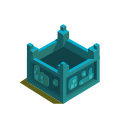
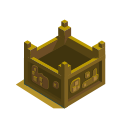
more engine stuff

diff --git a/protypes/proto_1/js/objects.js b/protypes/proto_1/js/objects.js
@@ -8,7 +8,6 @@ function space(id, x, y) {
         this.developed = false,
         this.occupants = [],
         this.watching_towers = [],
-        this.developed = false,
         this.occupied = false,
         this.tower = null,
         this.build = function (space_id) {
@@ -52,15 +51,7 @@ function tower(space_id) {
         this.render = function () {
 
             var img = new Image()
-            if (this.level === 1) {
-                img.src = 'gfx/buildings/tower_1_brown.png'
-            }
-            if (this.level >= 2) {
-                img.src = 'gfx/buildings/tower_2.png'
-            }
-            if (this.level >= 3) {
-                img.src = 'gfx/buildings/tower_3.png'
-            }
+            img.src = 'gfx/buildings/tower_' + this.level + '.png'
 
 
             if (this.id === game.hoverTile) {
@@ -79,6 +70,11 @@ function tower(space_id) {
         this.fall = function () {
             //console.log(myTowers[i].x)
         }
+}
+
+function arrow(space_id) {
+    this.x =
+        this.y
 }
 
 //Unit Base Object

diff --git a/protypes/proto_1/js/logic.js b/protypes/proto_1/js/logic.js
@@ -70,7 +70,7 @@ var update = {
 var render = {
 
     background: function () {
-        ctx.fillStyle = '#e2c85d'
+        ctx.fillStyle = '#ffaa33'
         ctx.fillRect(0, 0, w, h);
     },
     tiles: function () {
@@ -115,7 +115,8 @@ function animate() {
 
 globalID = requestAnimationFrame(animate)
 update.window()
-game.createBoard(16, 9, 126)
+
+game.createBoard(20, 12, 60)
 
 
 

diff --git a/protypes/proto_1/js/detection.js b/protypes/proto_1/js/detection.js
@@ -24,6 +24,10 @@ function isTower(id) {
     }
 }
 
+function findNeigbor(id, direction) {
+    //NSEW space neighbor reference
+}
+
 //returns an array of the unit objects occupying in the space
 function getUnits() {
     //space[].occupants
